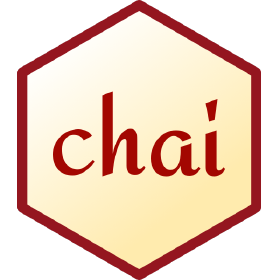
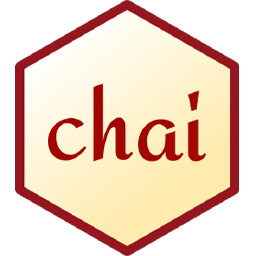
I ran into a hiccup resizing pictures. will try again later.

diff --git a/css/ELCstyle.css b/css/ELCstyle.css
@@ -398,17 +398,25 @@
     .skillsDiv {
         display: grid;
         width: 100%;
-        grid-template-columns: repeat(2, 1fr);
+        grid-template-columns: repeat(3, 1fr);
         grid-template-rows: minmax(0px, max-content);
         grid-gap: 5px;
         justify-content: center;
+        align-content: center;
         text-align: center;
         padding-top: 15px;
     }
 
     .skillItem {
         display: grid;
-        width: 100%;
+        /* width: 100%; */
+        align-content: center;
+        margin-bottom: 15%;
+    }
+
+    .skillPic {
+        /* width: 90%; */
+        margin: 5%;
     }
 
     .skillPic {
@@ -708,6 +716,34 @@
     }
 
     .folderDiv {}
+
+    /* Skills Section CSS */
+
+    .skillsDiv {
+        display: grid;
+        width: calc(var(--folderWidth) - 12%);
+        grid-template-columns: repeat(3, 1fr);
+        grid-gap: 5px;
+        justify-content: center;
+        text-align: center;
+        padding-top: 15px;
+    }
+
+    .skillItem {
+        display: grid;
+        width: 100%;
+        margin-bottom: 15%;
+    }
+
+    .skillPic {
+        width: 90%;
+        margin: 5%;
+    }
+
+    .skillPic {
+        width: 90%;
+        margin: 5%;
+    }
 
 }
 
